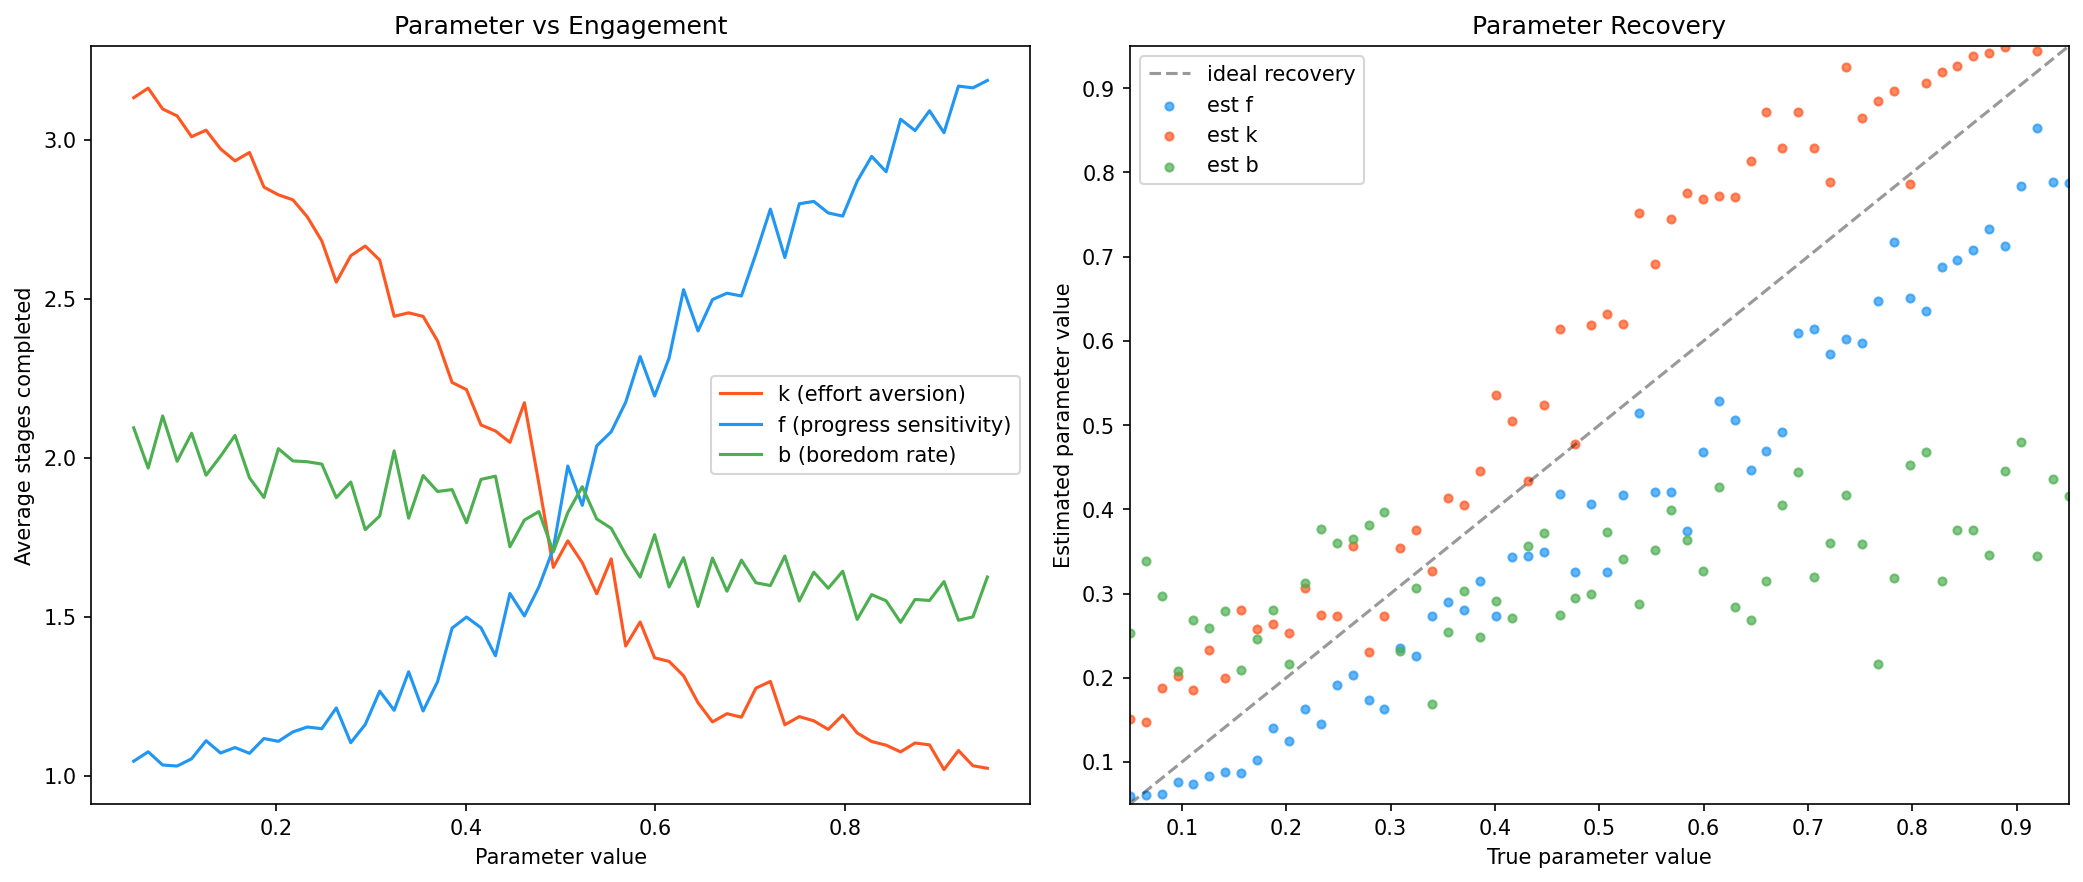
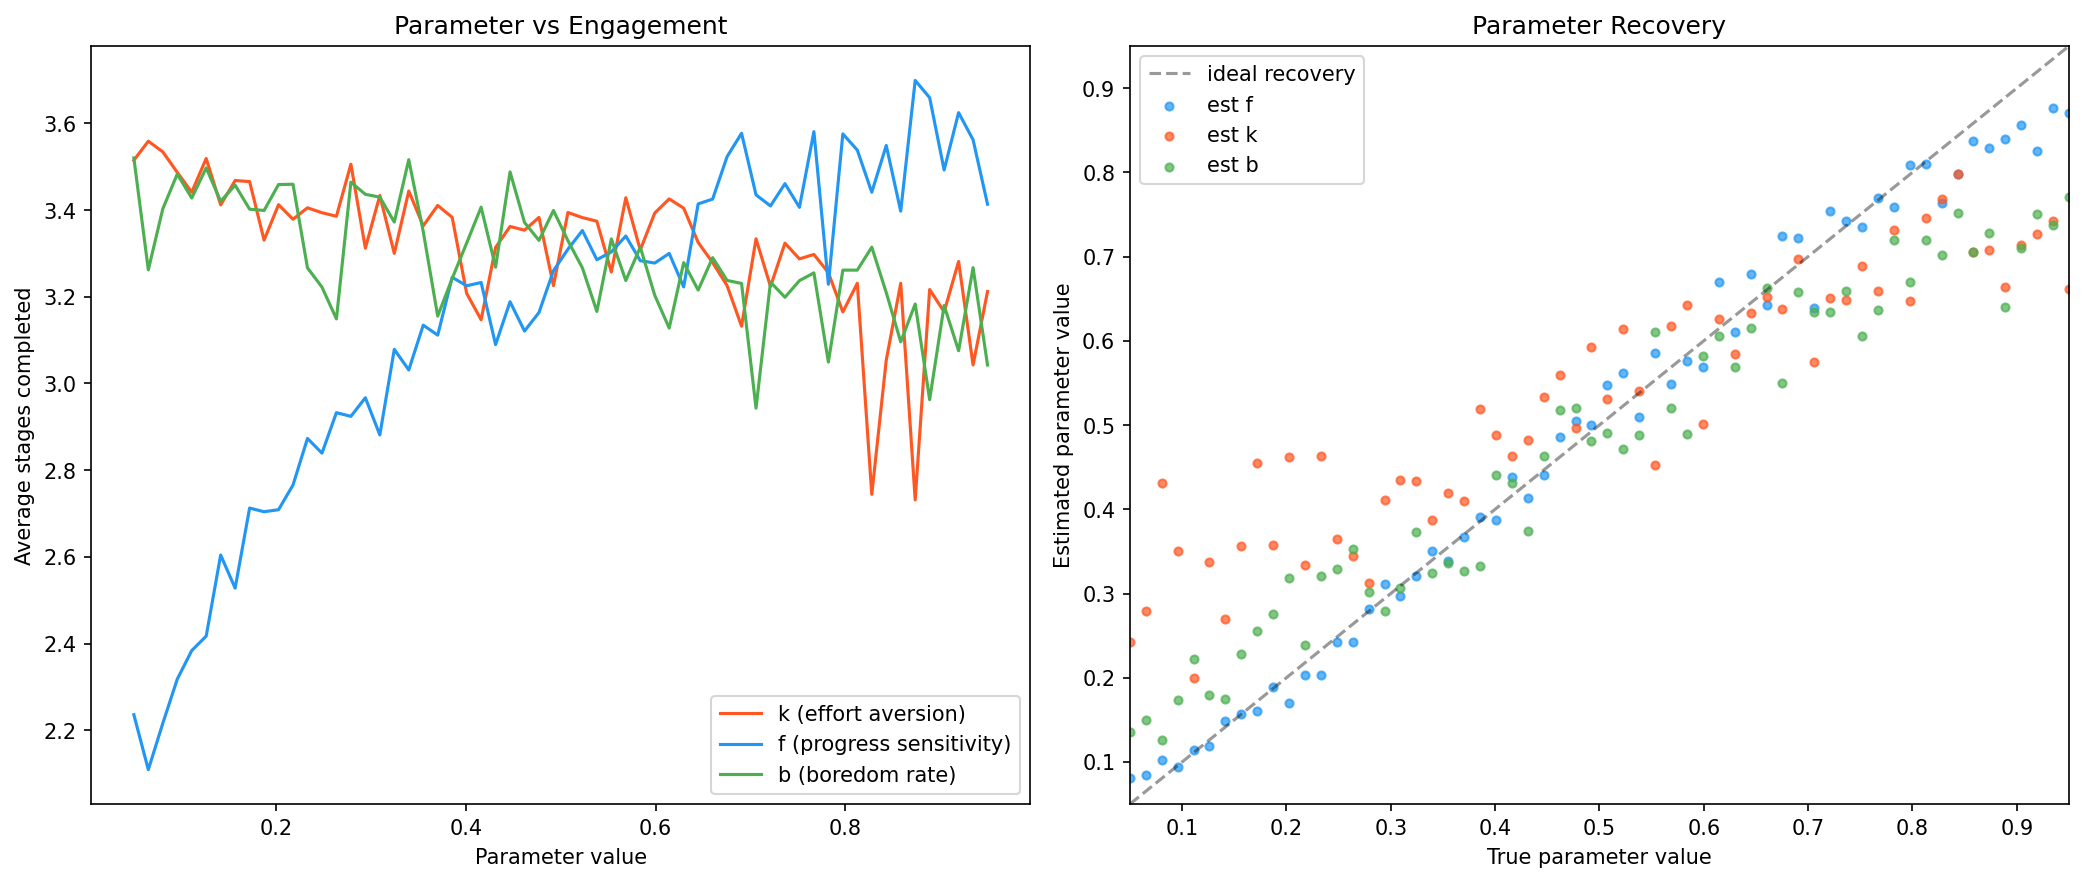
Changed effort cost formula to use state.t instead of t_since_eng because if the learner goes too long without learning it makes sense that the effort cost would be higher.

diff --git a/temporal_difference_model.py b/temporal_difference_model.py
@@ -50,15 +50,15 @@ def engagement_score(delta, v, f_val, k_val, b_val, state: ModelState, part = Fa
     
     signal = f_val * delta_scale + 1
     denom = max(0, abs(v) + state.skill) + 1
-    effort_cost = (k_val * stage_amt + 1) *((state.t_since_eng + 1) + diff * stage_amt) / denom
+    effort_cost = (k_val) * (((state.t * .01) * stage_amt) / (denom - diff))
     boredom_cost = (b_val) * (state.t_since_eng)
     
     score = signal - effort_cost - boredom_cost
 
 
-    if score >= state.highest_eng and not part:
+    if delta >= state.highest_eng and not part:
         state.t_since_eng = 0
-        state.highest_eng = score
+        state.highest_eng = delta
     
 
     return score
@@ -88,7 +88,7 @@ def bayesian_particle_update(engaged, delta, v, state: ModelState):
     delta_scale = 10 * sigmoid(abs(delta))
     signal = state.f_arr * delta_scale + 1
     denom = max(0, abs(v) + state.skill) + 1
-    effort_cost = (state.k_arr * stage_amt + 1) * ((state.t_since_eng + 1) + diff * stage_amt) / denom
+    effort_cost = (state.k_arr) * (((state.t * .01) * stage_amt) / (denom - diff))
     boredom_cost = (state.b_arr) * (state.t_since_eng)
     scores = signal - effort_cost - boredom_cost
 
